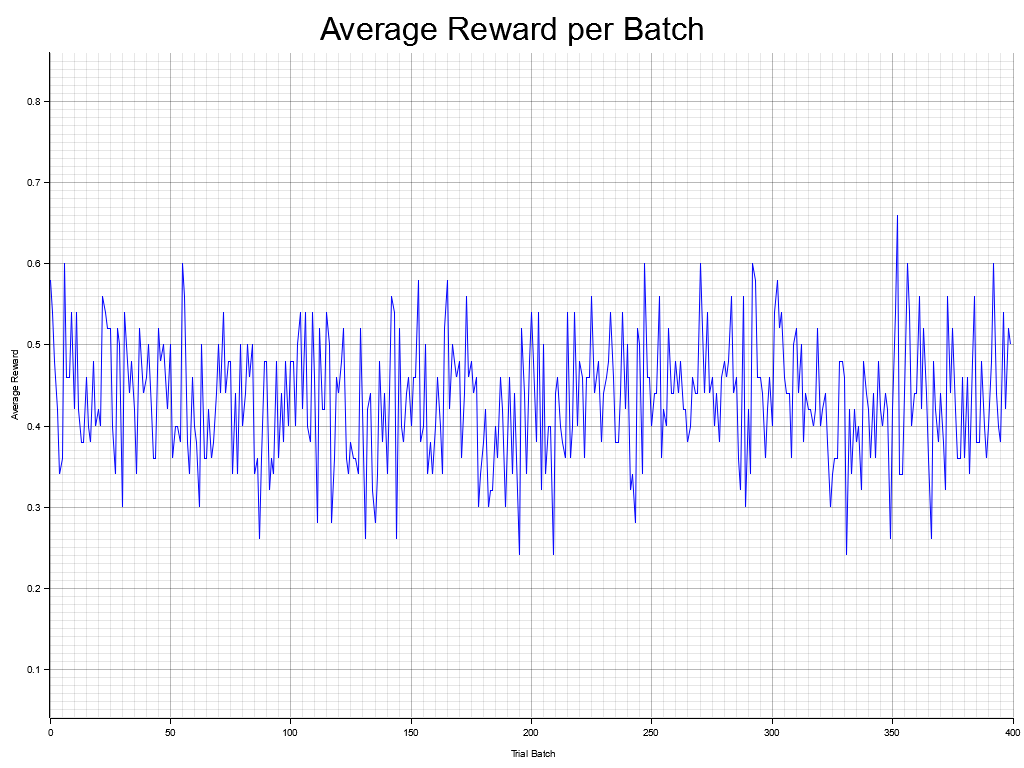
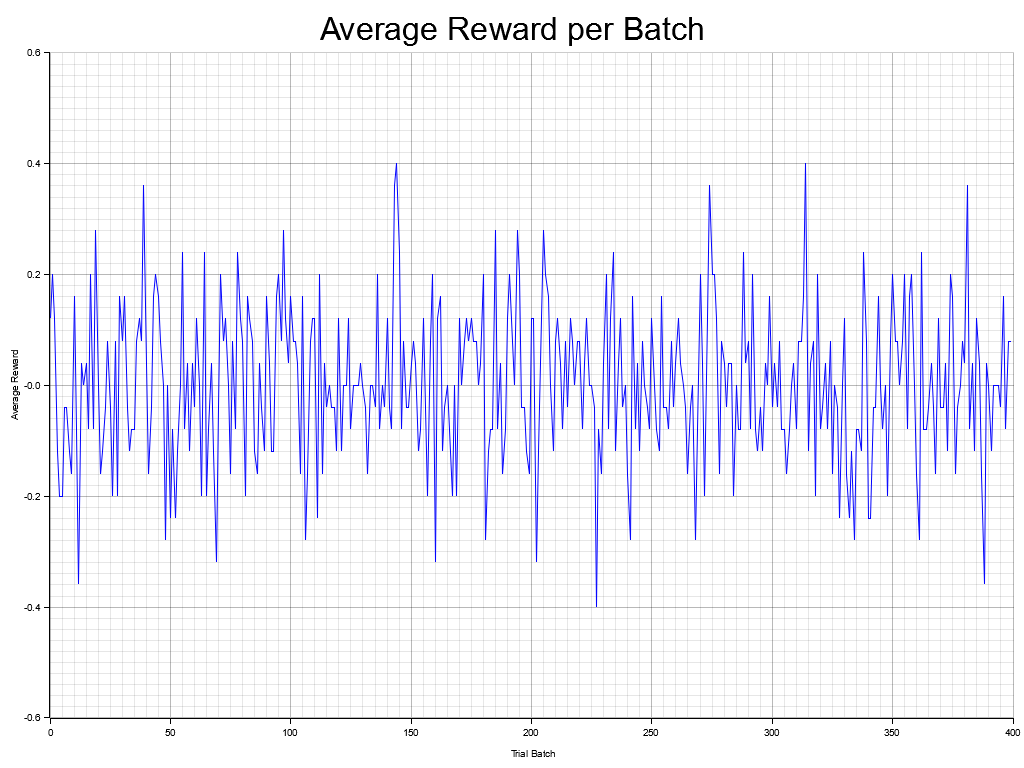
Refactor reward system to track delta error history and expose EMA average reward; add plotting functionality for combined reward and delta error series

Changed region(s): [[0.0312, 0.0625, 1.0, 0.9375]]

diff --git a/src/main.rs b/src/main.rs
@@ -1,7 +1,5 @@
-use graphviz_rust::print;
-use rand::{thread_rng, Rng, SeedableRng};
+use rand::{thread_rng, Rng};
 use plotters::prelude::*;
-use rand::rngs::StdRng;
 // Added for reward plotting
 use crate::network::{Network, VisualizeNetwork};
 use crate::neuron::NeuronBehavior;
@@ -62,12 +60,85 @@ fn plot_reward_over_time(
     Ok(())
 }
 
+/// Plots two 1D vectors of f32 data overlaid as a line chart with legend.
+fn plot_two_series_over_time(
+    data1: &[f32],
+    label1: &str,
+    data2: &[f32],
+    label2: &str,
+    path: &str,
+    title: &str,
+) -> Result<(), Box<dyn std::error::Error>> {
+    let len = data1.len().max(data2.len());
+    if len == 0 {
+        println!("No data to plot for {}", title);
+        return Ok(());
+    }
+
+    // Compute combined min/max for y-axis
+    let mut min_val = f32::INFINITY;
+    let mut max_val = f32::NEG_INFINITY;
+    for v in data1.iter().chain(data2.iter()) {
+        if *v < min_val { min_val = *v; }
+        if *v > max_val { max_val = *v; }
+    }
+    if !min_val.is_finite() || !max_val.is_finite() {
+        println!("Data contained non-finite values; skipping plot {}", title);
+        return Ok(());
+    }
+
+    let y_max = (max_val + 0.2).min(1.5);
+    let y_min = (min_val - 0.2).max(-1.5);
+
+    let root = BitMapBackend::new(path, (1024, 768)).into_drawing_area();
+    root.fill(&WHITE)?;
+
+    let mut chart = ChartBuilder::on(&root)
+        .caption(title, ("sans-serif", 40).into_font())
+        .margin(10)
+        .x_label_area_size(40)
+        .y_label_area_size(50)
+        .build_cartesian_2d(0..len, y_min..y_max)?;
+
+    chart
+        .configure_mesh()
+        .x_desc("Step Index")
+        .y_desc("Value")
+        .draw()?;
+
+    // Series 1
+    chart
+        .draw_series(LineSeries::new(
+            (0..data1.len()).map(|i| (i, data1[i])),
+            &BLUE,
+        ))?
+        .label(label1)
+        .legend(|(x, y)| PathElement::new(vec![(x, y), (x + 20, y)], BLUE.stroke_width(2)));
+
+    // Series 2
+    chart
+        .draw_series(LineSeries::new(
+            (0..data2.len()).map(|i| (i, data2[i])),
+            &RED,
+        ))?
+        .label(label2)
+        .legend(|(x, y)| PathElement::new(vec![(x, y), (x + 20, y)], RED.stroke_width(2)));
+
+    chart
+        .configure_series_labels()
+        .border_style(&BLACK)
+        .background_style(&WHITE.mix(0.8))
+        .draw()?;
+
+    root.present()?;
+    println!("Combined plot saved to {}", path);
+    Ok(())
+}
 
 fn main() {
     println!("Spiking Neural Network Simulation");
-    let mut rng = StdRng::seed_from_u64(42); // Fixed seed for reproducibility
     let mut rng = thread_rng(); // Non-deterministic seed for variability
-    let mut network = Network::create_dense(3, &mut rng);
+    let mut network = Network::create_dense(100, &mut rng);
     let mut simulation = Simulation::new(1.0, network.neurons.clone());
 
     network.plot_synapse_weights("synapse_weights_start.png").unwrap();
@@ -88,6 +159,8 @@ fn main() {
     let mut total_reward_batch = 0.0f32;
     let mut all_trial_rewards: Vec<f32> = Vec::new();
     let mut batch_avg_rewards: Vec<f32> = Vec::new();
+    // New series: RewardSystem EMA average per trial (sampled after applying reward)
+    let mut reward_system_avg_over_trials: Vec<f32> = Vec::new();
     const BATCH_SIZE: u32 = 50;
 
     for trial in 0..NUM_TRIALS {
@@ -103,16 +176,16 @@ fn main() {
         };
 
         // pct_rand should decrease exponentially over trials
-        let pct_rand = (-0.3 * (trial as f32)).exp();
+        let _pct_rand = (-0.3 * (trial as f32)).exp();
 
         // --- This is the inner trial loop ---
         simulation.step();
         //simulation.random_noise(0.0, 1.0, 1.0, &mut rng);
         for _ in 0..TRIAL_WINDOW_STEPS {
             simulation.input_external_stimuli(network.neurons[input_idx].clone(), 1.0);
-            if pct_rand > 0.0001 {
-                simulation.random_noise(-pct_rand, pct_rand, pct_rand, &mut rng);
-            }
+            //if pct_rand > 0.0001 {
+            //    simulation.random_noise(-pct_rand*5.0, pct_rand*5.0, pct_rand, &mut rng);
+            //}
             simulation.step();
             // DO NOT apply reward here
         }
@@ -148,6 +221,9 @@ fn main() {
         // Apply the *single* reward for the *entire* trial
         simulation.reward(reward);
 
+        // Capture RewardSystem EMA average immediately after this trial's reward
+        reward_system_avg_over_trials.push(simulation.average_reward());
+
         // This intra-trial result tracking is fine, but it was just for logging.
         // We'll use the final reward for logging.
         let intra_trial_result = reward;
@@ -171,6 +247,38 @@ fn main() {
     ) {
         eprintln!("Error plotting reward: {}", e);
     }
+
+    // Also plot the RewardSystem EMA average over trials
+    if let Err(e) = plot_reward_over_time(
+        &reward_system_avg_over_trials,
+        "reward_system_average_over_time.png",
+        "EMA Average Reward (RewardSystem)",
+    ) {
+        eprintln!("Error plotting RewardSystem average: {}", e);
+    }
+
+    // New: plot delta error per learning step (one point per reward application)
+    let delta_errors: Vec<f32> = simulation.delta_error_history().to_vec();
+    if let Err(e) = plot_reward_over_time(
+        &delta_errors,
+        "delta_error_over_time.png",
+        "Delta Error per Learning Step",
+    ) {
+        eprintln!("Error plotting delta error: {}", e);
+    }
+
+    // New: combined plot of EMA average reward and delta error in the same chart
+    if let Err(e) = plot_two_series_over_time(
+        &reward_system_avg_over_trials,
+        "EMA Avg Reward",
+        &delta_errors,
+        "Delta Error",
+        "reward_and_delta_over_time.png",
+        "EMA Average Reward and Delta Error",
+    ) {
+        eprintln!("Error plotting combined series: {}", e);
+    }
+
     // ---
 
     // Calculate and print moving average of rewards
@@ -196,5 +304,3 @@ fn main() {
     println!("The weights plot might show stronger connections from {} -> {}", INPUT_NEURON_A_IDX, OUTPUT_NEURON_IDX);
     println!("and weaker (or inhibitory) connections from {} -> {}", INPUT_NEURON_B_IDX, OUTPUT_NEURON_IDX);
 }
-
-

diff --git a/src/reward_system.rs b/src/reward_system.rs
@@ -1,6 +1,5 @@
 use crate::constants::{LEARNING_RATE, MAX_SYNAPSE_WEIGHT, MIN_SYNAPSE_WEIGHT, REWARD_AVERAGE_DURATION};
 use crate::neuron::NeuronBehavior;
-use crate::synapse::{Synapse};
 use std::sync::{Arc, RwLock};
 use crate::datastructures::exponential_rolling_mean::EmaMeanF32;
 use crate::spike_event::SpikeEvent;
@@ -9,6 +8,8 @@ pub struct RewardSystem {
     learning_rate: f32,
     average_reward: EmaMeanF32,
     last_reward: f32,
+    // Track the delta error (reward prediction error) per learning step
+    delta_error_history: Vec<f32>,
 }
 
 impl RewardSystem {
@@ -17,6 +18,7 @@ impl RewardSystem {
             learning_rate: LEARNING_RATE,
             average_reward: EmaMeanF32::new(REWARD_AVERAGE_DURATION), // This is global so we use a slower mean function than in synapses.
             last_reward: 0.0,
+            delta_error_history: Vec::new(),
         }
     }
 
@@ -33,8 +35,14 @@ impl RewardSystem {
 
         // We will iterate all the synapses so only send synapses which have been active lately.
         let average_reward = self.average_reward.get_mean(time).unwrap_or(0.0);
-        let delta_reward = self.last_reward - average_reward;
+        let weighted_average_reward = average_reward * (time / REWARD_AVERAGE_DURATION).min(1.0);
+        let delta_reward = self.last_reward - average_reward * weighted_average_reward;
+
+        // Record delta error for plotting regardless of whether we update.
+        self.delta_error_history.push(delta_reward);
+
         if delta_reward.abs() < 0.01 {return}
+
 
         let mut delta_sum = 0.0;
         for spike_event in spike_events {
@@ -64,5 +72,15 @@ impl RewardSystem {
         }
         println!("Total weight change this reward: {}, And average: {}, num spikes: {}", delta_sum, delta_sum/(spike_events.len() as f32), spike_events.len());
         self.last_reward = 0.0;
+    }
+
+    // New: expose the current EMA average reward (decayed to the provided time)
+    pub fn get_average_reward(&self, current_time: f32) -> Option<f32> {
+        self.average_reward.get_mean(current_time)
+    }
+
+    // New: expose the delta error history for plotting
+    pub fn delta_error_history(&self) -> &[f32] {
+        &self.delta_error_history
     }
 }

diff --git a/src/simulation.rs b/src/simulation.rs
@@ -1,8 +1,7 @@
 use crate::neuron::{Neuron, NeuronBehavior};
 use crate::reward_system::RewardSystem;
 use crate::spike_event::SpikeEvent;
-use crate::synapse::{ChemicalSynapse, Synapse};
-use graphviz_rust::print;
+use crate::synapse::{Synapse};
 use rand::Rng;
 use std::collections::VecDeque;
 use std::sync::{Arc, RwLock};
@@ -30,12 +29,21 @@ impl Simulation {
 
     pub fn reward(&mut self, reward: f32) {
         self.reward_system.add_reward(self.time, reward);
-        if self.current_trial_spike_events.is_empty() {
-            return;
-        }
+        // Always call update_synapses to record delta error per learning step,
+        // even if there were no spike events (no weight updates will occur).
         self.reward_system
             .update_synapses(self.time, &self.current_trial_spike_events);
         self.current_trial_spike_events = Vec::new();
+    }
+
+    // New: expose the reward system's EMA average reward at current sim time
+    pub fn average_reward(&self) -> f32 {
+        self.reward_system.get_average_reward(self.time).unwrap_or(0.0)
+    }
+
+    // New: expose delta error history for plotting
+    pub fn delta_error_history(&self) -> &[f32] {
+        self.reward_system.delta_error_history()
     }
 
     fn send_action_potential(&mut self, neuron: Arc<RwLock<Neuron>>) {

diff --git a/src/constants.rs b/src/constants.rs
@@ -8,5 +8,5 @@ pub const MIN_NEURON_DECAY_RATE: f32 = 0.015; // Minimum neuron decay rate
 pub const MAX_NEURON_DECAY_RATE: f32 = 0.05;
 pub const MIN_NEURON_THRESHOLD: f32 = 1.0; // Minimum neuron firing threshold
 pub const MAX_NEURON_THRESHOLD: f32 = 1.0; // Maximum neuron
-pub const REWARD_AVERAGE_DURATION: f32 = 10000.0; // 20 ms
+pub const REWARD_AVERAGE_DURATION: f32 = 100.0; // 20 ms
 pub const LEARNING_RATE: f32 = 0.001;
